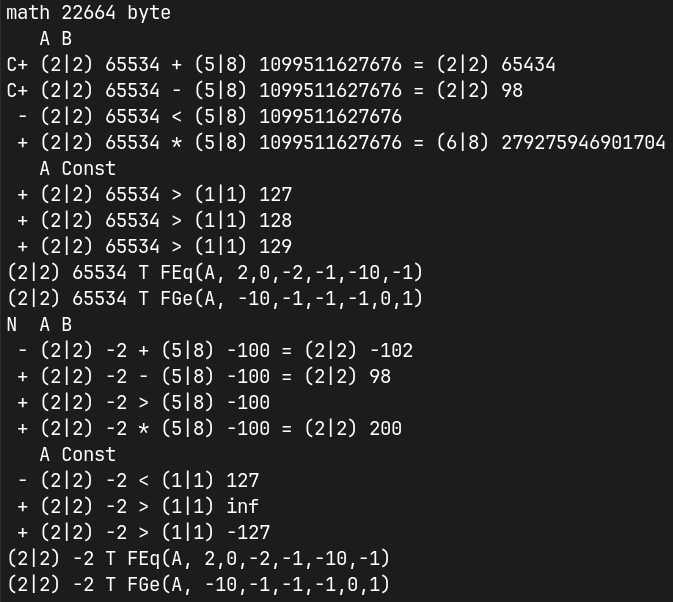
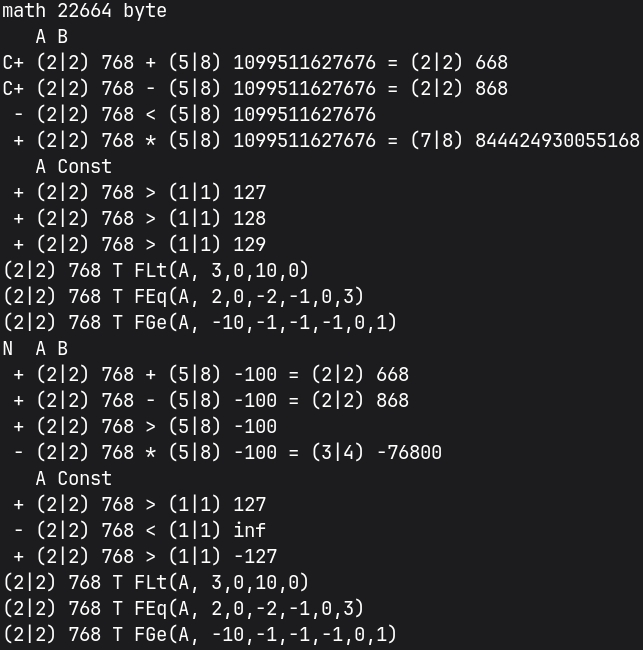
v60.8

Changed region(s): [[0.0, 0.0, 0.9953, 0.9867]]

diff --git a/math.h b/math.h
@@ -63,7 +63,7 @@ void FTST(an a, anu l, an b);                           // a[Mat.l] ? b[l]  Mat.
 #define FGE(x, l, y) (FTST(x, l, y),(!Mat.TN | Mat.TF)) // x >= y
 #define FLE(x, l, y) (FTST(x, l, y),(Mat.TN | Mat.TF))  // x <= y
 #define FGT(x, l, y) (FTST(x, l, y),!(Mat.TN | Mat.TF)) // x > y
-#define FLT(x, l, y) (FTST(x, l, y),(Mat.TN && !Mat.TF))// x < y
+#define FLT(x, l, y) (FTST(x, l, y),Mat.TN)             // x < y
 #define FEQ(x, l, y) (FTST(x, l, y),Mat.TF)             // x = y
 #define FNE(x, l, y) (FTST(x, l, y),!Mat.TF)            // x != y
 
@@ -85,12 +85,14 @@ void FCTST(an a, anu l, an c);                  // a?(an)c[l]{Num} Mat.TF? =:Mat
 #define Fge(x, ...) (Ftst(x, __VA_ARGS__),(!Mat.TN | Mat.TF))   // x >= Num              | x >= Mat.b
 #define Fle(x, ...) (Ftst(x, __VA_ARGS__),(Mat.TN | Mat.TF))    // x <= Num              | x <= Mat.b
 #define Fgt(x, ...) (Ftst(x, __VA_ARGS__),!(Mat.TN | Mat.TF))   // x > Num               | x > Mat.b
-#define Flt(x, ...) (Ftst(x, __VA_ARGS__),(Mat.TN && !Mat.TF))  // x < Num               | x < Mat.b
+#define Flt(x, ...) (Ftst(x, __VA_ARGS__),Mat.TN)               // x < Num               | x < Mat.b
 #define Feq(x, ...) (Ftst(x, __VA_ARGS__),Mat.TF)               // x = Num               | x = Mat.b
 #define Fne(x, ...) (Ftst(x, __VA_ARGS__),!Mat.TF)              // x != Num              | x != Mat.b
 
+anu FCLT(an a, anu l, an c);                    // a ? (an)c[l]{{< NumN}{)Num1,Num2(^k}} | a < Mat.b
 anu FCGE(an a, anu l, an c);                    // a ? (an)c[l]{{[Num1,Num2]^k}{>=NumN}} | a >= Mat.b
 anu FCEQ(an a, anu l, an c);                    // a = (an)c[l]{Num1;Num2;...NumN}       | a = Mat.b
+#define FLt(x, ...) FCLT(x, Anu(__VA_ARGS__))           // x ? {< NumN}{)Num1,Num2(^k}   | x < Mat.b
 #define FGe(x, ...) FCGE(x, Anu(__VA_ARGS__))           // x ? {[Num1;Num2]^k}{>=NumN}}  | x >= Mat.b
 #define FEq(x, ...) FCEQ(x, Anu(__VA_ARGS__))                   // x = {Num1...{,NumN}}  | x = Mat.b
 #endif

diff --git a/main.c b/main.c
@@ -31,8 +31,9 @@ void Show(char s) { Flong(Mat.lb,la); Mat.C = 0; if (s == '+') FAdd(Mat.R, Mat.A
   if (s == '/') { printf("  %c ", Mat.Fe ? (Mat.Ne ? 'I':'Z') : (Mat.Ne ? '-':'+')); Num(Mat.le, Mat.E); } printf("\n"); }
 void Test(void) { Faddr((As)Mat.B); Flong(lb,la); anu t,i = 2; printf("%c%c A B\n", Mat.Nim ? 'N':' ', Mat.V ? 'V':' '); Show('+');
   Show('-'); Show('?'); Show('*'); /*Show('/');*/ printf("   A Const\n"); Show('c'); while(i--) { t = *Mat.b; *Mat.b = ++t; Show('?'); }
-  Num(la, Mat.A); printf("%c FEq(A, 2,0,-2,-1,-10,-1)\n", FEq(Mat.A, 2,0,-2,-1,-10,-1) ? 'T':'F');
-  Num(la, Mat.A); printf("%c FGe(A, -10,-1,-1,-1,0,1)\n", FGe(Mat.A, -10,-1,-1,-1,0,1) ? 'T':'F');}
+  Num(la, Mat.A); printf("%c FLt(A, 3,0,10,0)\n", FLt(Mat.A, 3,0,10,0) ? 'T':'F');
+  Num(la, Mat.A); printf("%c FEq(A, 2,0,-2,-1,0,3)\n", FEq(Mat.A, 2,0,-2,-1,0,3) ? 'T':'F');
+  Num(la, Mat.A); printf("%c FGe(A, -10,-1,-1,-1,0,1)\n", FGe(Mat.A, -10,-1,-1,-1,0,1) ? 'T':'F'); }
 
-int main(void) { anu a[m],b[m],e[m],r[m+m]; Faddr((As)b, (As)a, (As)r, (As)e); Fini(NoSign,MatV); la = Fvbe(Mat.A, -1,-2);
+int main(void) { anu a[m],b[m],e[m],r[m+m]; Faddr((As)b, (As)a, (As)r, (As)e); Fini(NoSign,MatV); la = Fvbe(Mat.A, 3,0);
   lb = Fvle(Mat.B, -100,255,255,255,255); Test(); Fset(Sign,MatV); la = Fmov(la, Mat.A); lb = Fmov(lb, Mat.B); Test(); return 0; }

diff --git a/math.c b/math.c
@@ -164,6 +164,11 @@ void FCDIV(an r, an e, an a, anu l, an c) { if (l--) return FDIV(r, e, a, l, c);
   return FDIV(r, e, a, Mat.lb, Mat.b); }
 
 void FCTST(an a, anu l, an c) { if (l--) return FTST(a, l, c); return FTST(a, Mat.lb, Mat.b); }
+anu FCLT(an a, anu l, an c) { if (l--) { Mat.e = c; do { Mat.y = (Mat.l > l) ? l:Mat.l;
+      FTST(a, Mat.y, Mat.e); Mat.e += 1 + Mat.y; l -= Mat.y; Mat.z = Mat.TN; if (!l--) break;
+      Mat.y = (Mat.l > l) ? l:Mat.l; FTST(a, Mat.y, Mat.e); Mat.e += 1 + Mat.y; l -= Mat.y;
+      Mat.z = Mat.z || !(Mat.TN | Mat.TF); if (!l--) break; } while(!Mat.z); return Mat.z; }
+  FTST(a, Mat.lb, Mat.b); return Mat.TN; }
 anu FCGE(an a, anu l, an c) { if (l--) { Mat.e = c; do { Mat.y = (Mat.l > l) ? l:Mat.l;
       FTST(a, Mat.y, Mat.e); Mat.e += 1 + Mat.y; l -= Mat.y; Mat.z = !Mat.TN; if (!l--) break;
       Mat.y = (Mat.l > l) ? l:Mat.l; FTST(a, Mat.y, Mat.e); Mat.e += 1 + Mat.y; l -= Mat.y;

diff --git a/README.md b/README.md
@@ -25,7 +25,7 @@
 P.s.: Блокировку убрали как только добавил сообщение о ней на главную страницу, длилась минут 20, как я заметил, и принял меры, чтобы сообщить об этом Вам. Это сообщение останется (20.09.2026 ~16.00 +7 UTF) как память, так что буду стараться вопреки невостребованности в России по данной области дабы остальной народ мог этим воспользоваться. Проанализируйте события с момента, как я вернулся в эту сферу (конец января 2026 выложен Products, готовый полностью, затем занялся Fresh в начале февраля 2026), всё это время обновлялся код и было забавно видеть на open.net новости - даже компании серьёзные - их как озарило - так что у меня нет желания и времени следить за соблюдением GPLv3 из России, если заметите нарушение лицензии, то гарантируется взаимовыгодное сотрудничество.
 
 <div align="center">
-  <h1>Результат запуска v60.7</h1>
+  <h1>Результат запуска v60.8</h1>
   
   <picture>
     <source media="(prefers-color-scheme: dark)" srcset="Plus/psb.jpeg">
@@ -95,13 +95,13 @@ typedef struct { anu Nim, V, lb, l, le, C, F, N, Fe, Ne, TF, TN,
 ```
 
 <div align="center">
-  <h2>В состав входит 51 функция:</h2>
+  <h2>В состав входит 53 функции:</h2>
 </div>
 
 - **Инициализация** — 6 функций (4 основные и 2 вспомогательные)
 - **Обработка чисел** — 10 функций (2 зеркалирования 2 копирования 6 из константы в переменную)
 - **Математика** — 16 функций (4 основные и 12 для работы с константой или регистром `Mat.b`)
-- **Сравнение чисел** — 19 функций (15 тривиальных и 4 для работы с диапазонами)
+- **Сравнение чисел** — 21 функций (15 тривиальных и 6 для работы с диапазонами)
 
 <div align="center">
   <h2>Лицензия</h2>
